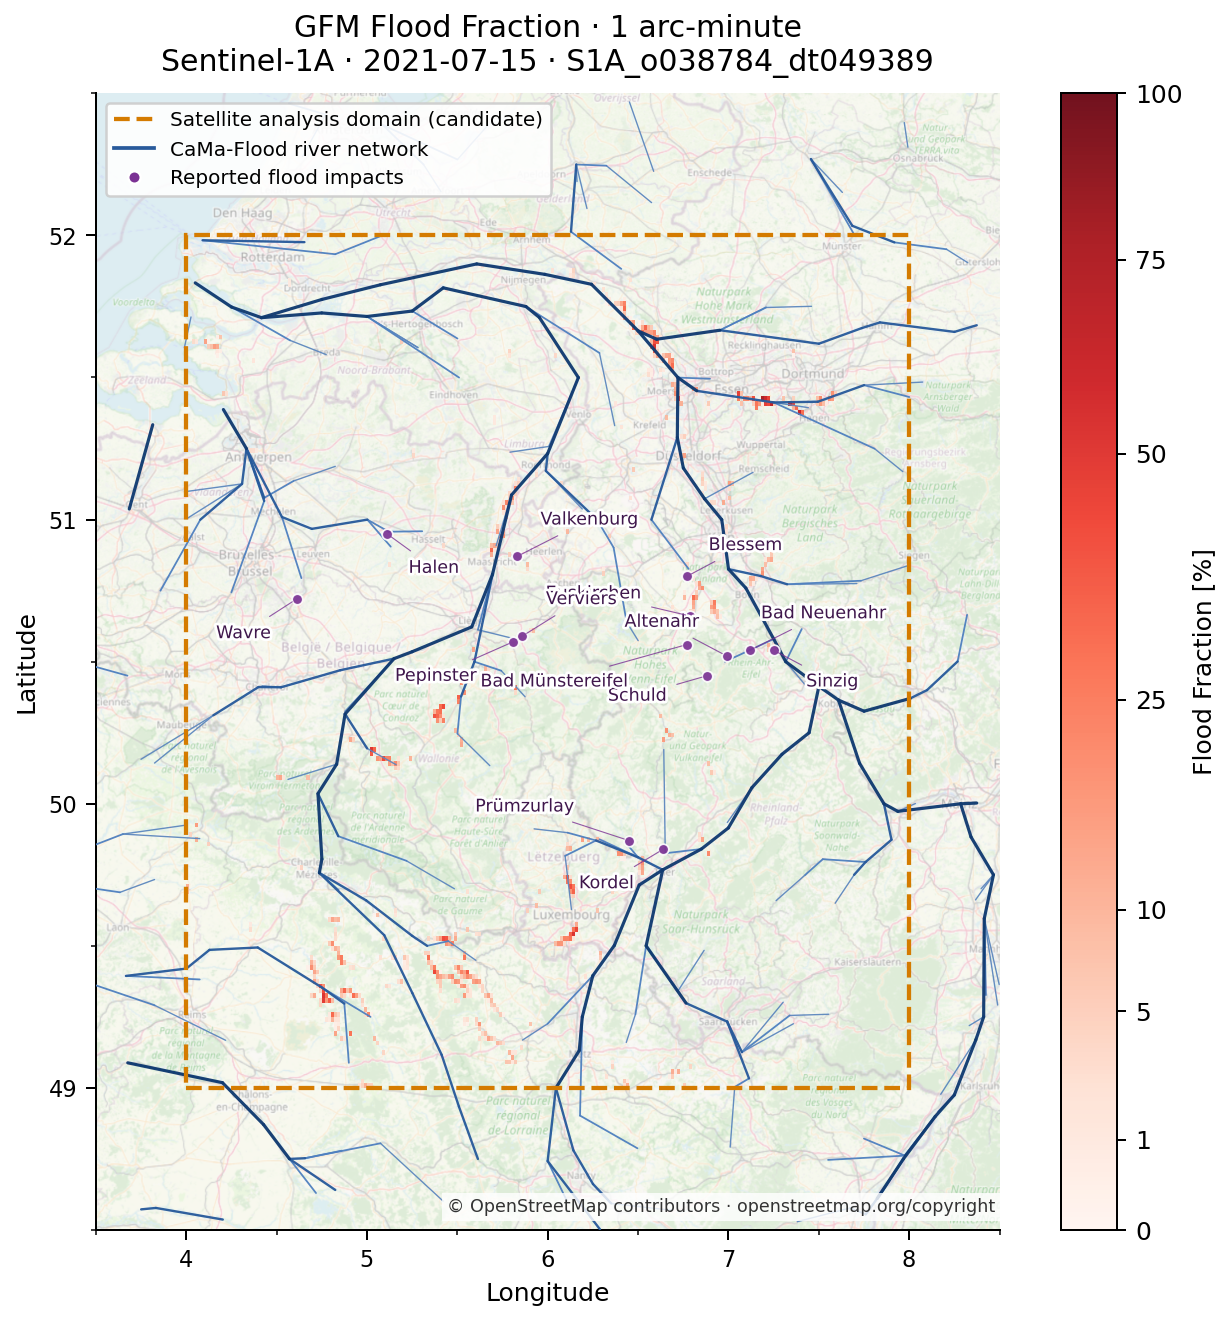
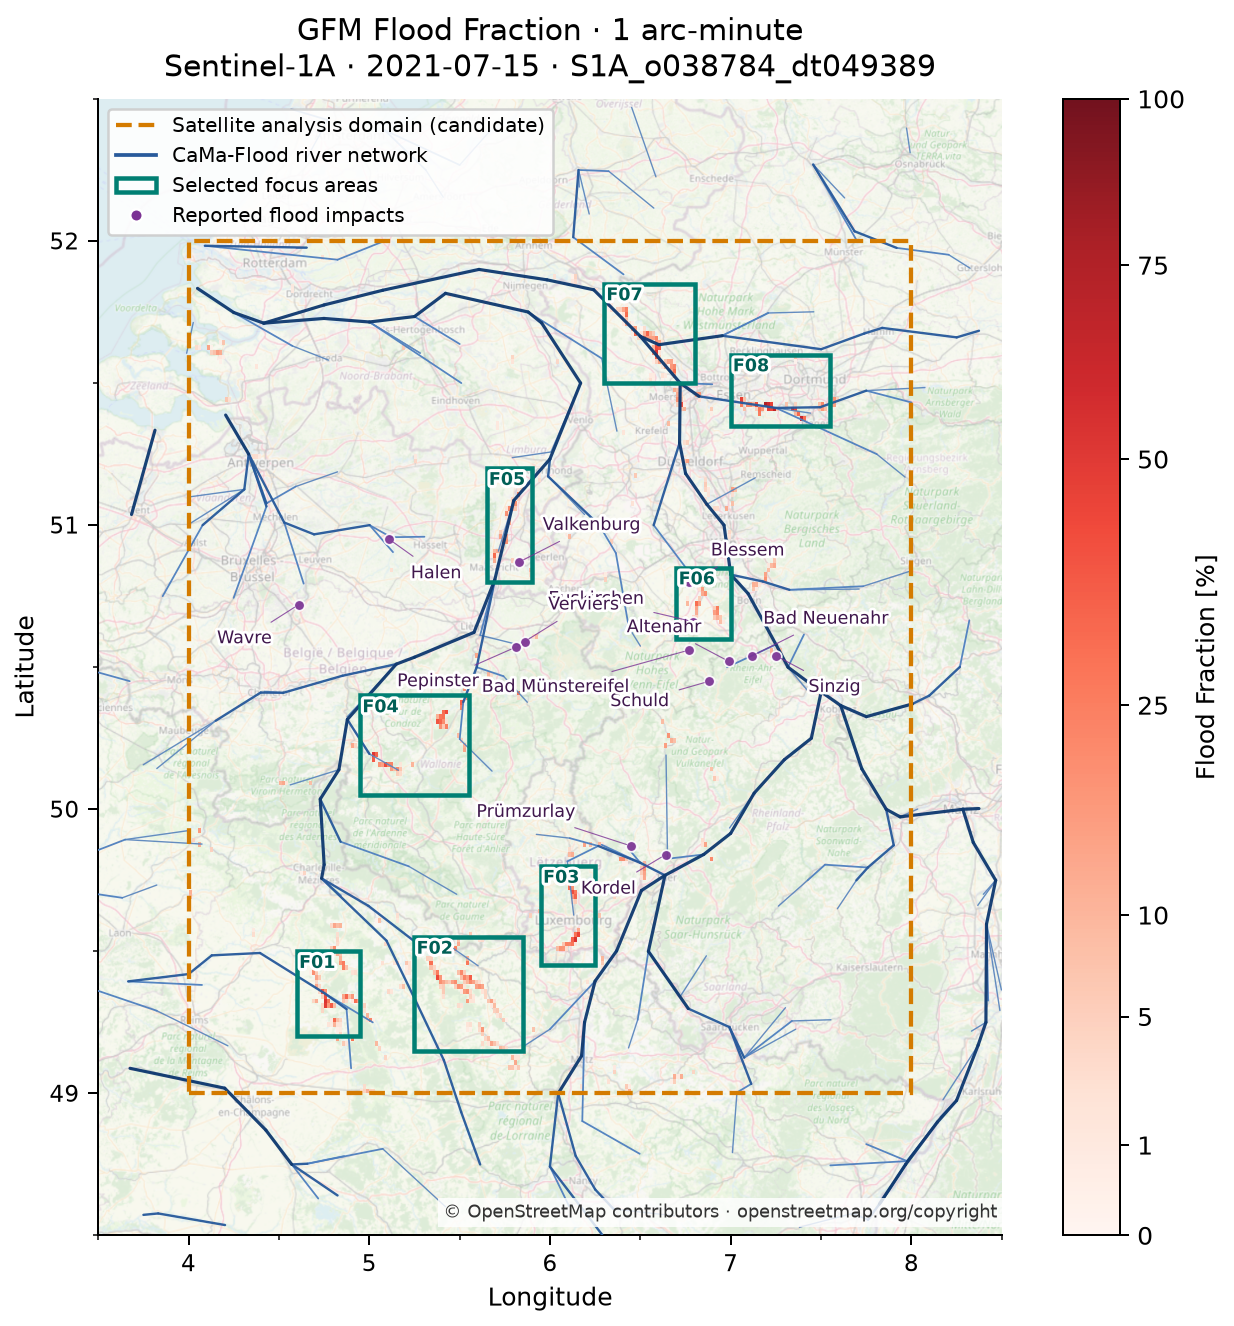
Add proposed GFM focus areas to Fig. 3c

diff --git a/tutorial/tutorial11-event_evaluation/script/s03c-flood_fraction_1min.py b/tutorial/tutorial11-event_evaluation/script/s03c-flood_fraction_1min.py
@@ -198,10 +198,27 @@ def write_rasters(fraction_path: Path, coverage_path: Path, fraction: np.ndarray
         coverage_tmp.unlink(missing_ok=True)
 
 
+def read_focus_areas(settings_path: Path,
+                     aoi: tuple[float, float, float, float]) -> list[dict]:
+    settings = json.loads(settings_path.read_text(encoding="utf-8"))
+    areas = settings["focus_areas"]
+    if not areas:
+        raise ValueError(f"No focus areas in {settings_path}")
+    west_aoi, south_aoi, east_aoi, north_aoi = aoi
+    for area in areas:
+        west, south, east, north = map(
+            float, area["bbox_west_south_east_north"]
+        )
+        if not (west_aoi <= west < east <= east_aoi and
+                south_aoi <= south < north <= north_aoi):
+            raise ValueError(f"Focus area {area.get('id')} is outside the satellite AOI")
+    return areas
+
+
 def create_figure(fraction: np.ndarray, transform: Affine,
                   aoi: tuple[float, float, float, float],
                   map_dir: Path, tile_cache: Path, impact_locations: Path,
-                  output_path: Path,
+                  focus_areas: list[dict], output_path: Path,
                   no_osm: bool = False) -> None:
     west, south, east, north = aoi
     margin = 0.5
@@ -228,6 +245,20 @@ def create_figure(fraction: np.ndarray, transform: Affine,
         edgecolor="#d47b00", linewidth=1.7, linestyle="--", zorder=3.4,
     ))
     river.draw_network(ax, segments, classes)
+    for area in focus_areas:
+        west, south, east, north = map(
+            float, area["bbox_west_south_east_north"]
+        )
+        ax.add_patch(Rectangle(
+            (west, south), east - west, north - south, fill=False,
+            edgecolor="#007f73", linewidth=1.8, zorder=5,
+        ))
+        ax.text(
+            west + 0.012, north - 0.012, area["id"].upper(),
+            fontsize=7, fontweight="bold", color="#005f56",
+            ha="left", va="top", zorder=7,
+            path_effects=[path_effects.withStroke(linewidth=2.5, foreground="white")],
+        )
     river.format_axes(ax, view, 1.0, 1.0)
 
     with impact_locations.open(newline="", encoding="utf-8") as stream:
@@ -267,6 +298,8 @@ def create_figure(fraction: np.ndarray, transform: Affine,
                    label="Satellite analysis domain (candidate)"),
             Line2D([0], [0], color="#285A9B", linewidth=1.5,
                    label="CaMa-Flood river network"),
+            Rectangle((0, 0), 1, 1, fill=False, edgecolor="#007f73",
+                      linewidth=1.8, label="Selected focus areas"),
             Line2D([0], [0], marker="o", linestyle="none", markersize=5,
                    markerfacecolor="#7b3294", markeredgecolor="white",
                    label="Reported flood impacts"),
@@ -284,6 +317,7 @@ def main() -> int:
     parser.add_argument("--output", type=Path, required=True)
     parser.add_argument("--coverage-output", type=Path, required=True)
     parser.add_argument("--impact-locations", type=Path, required=True)
+    parser.add_argument("--focus-areas", type=Path, required=True)
     parser.add_argument("--figure-output", type=Path, required=True)
     parser.add_argument("--map-dir", type=Path, default=REPO_ROOT / "map/glb_15min")
     parser.add_argument("--tile-cache", type=Path,
@@ -295,6 +329,7 @@ def main() -> int:
     args = parser.parse_args()
 
     aoi = read_aoi(args.domain_config)
+    focus_areas = read_focus_areas(args.focus_areas, aoi)
     if args.render_only:
         with rasterio.open(args.output) as existing:
             if existing.crs is None or existing.crs.to_epsg() != 4326:
@@ -304,7 +339,7 @@ def main() -> int:
             fraction = existing.read(1)
             grid_transform = existing.transform
         create_figure(fraction, grid_transform, aoi, args.map_dir,
-                      args.tile_cache, args.impact_locations,
+                      args.tile_cache, args.impact_locations, focus_areas,
                       args.figure_output, args.no_osm)
         print(f"figure={args.figure_output} ({args.figure_output.stat().st_size} bytes)")
         return 0
@@ -315,7 +350,7 @@ def main() -> int:
     write_rasters(args.output, args.coverage_output, fraction, valid_count,
                   grid_transform, source_profile, metadata)
     create_figure(fraction, grid_transform, aoi, args.map_dir,
-                  args.tile_cache, args.impact_locations,
+                  args.tile_cache, args.impact_locations, focus_areas,
                   args.figure_output, args.no_osm)
     print(json.dumps(metadata, indent=2))
     print(f"fraction_raster={args.output} ({args.output.stat().st_size} bytes)")
